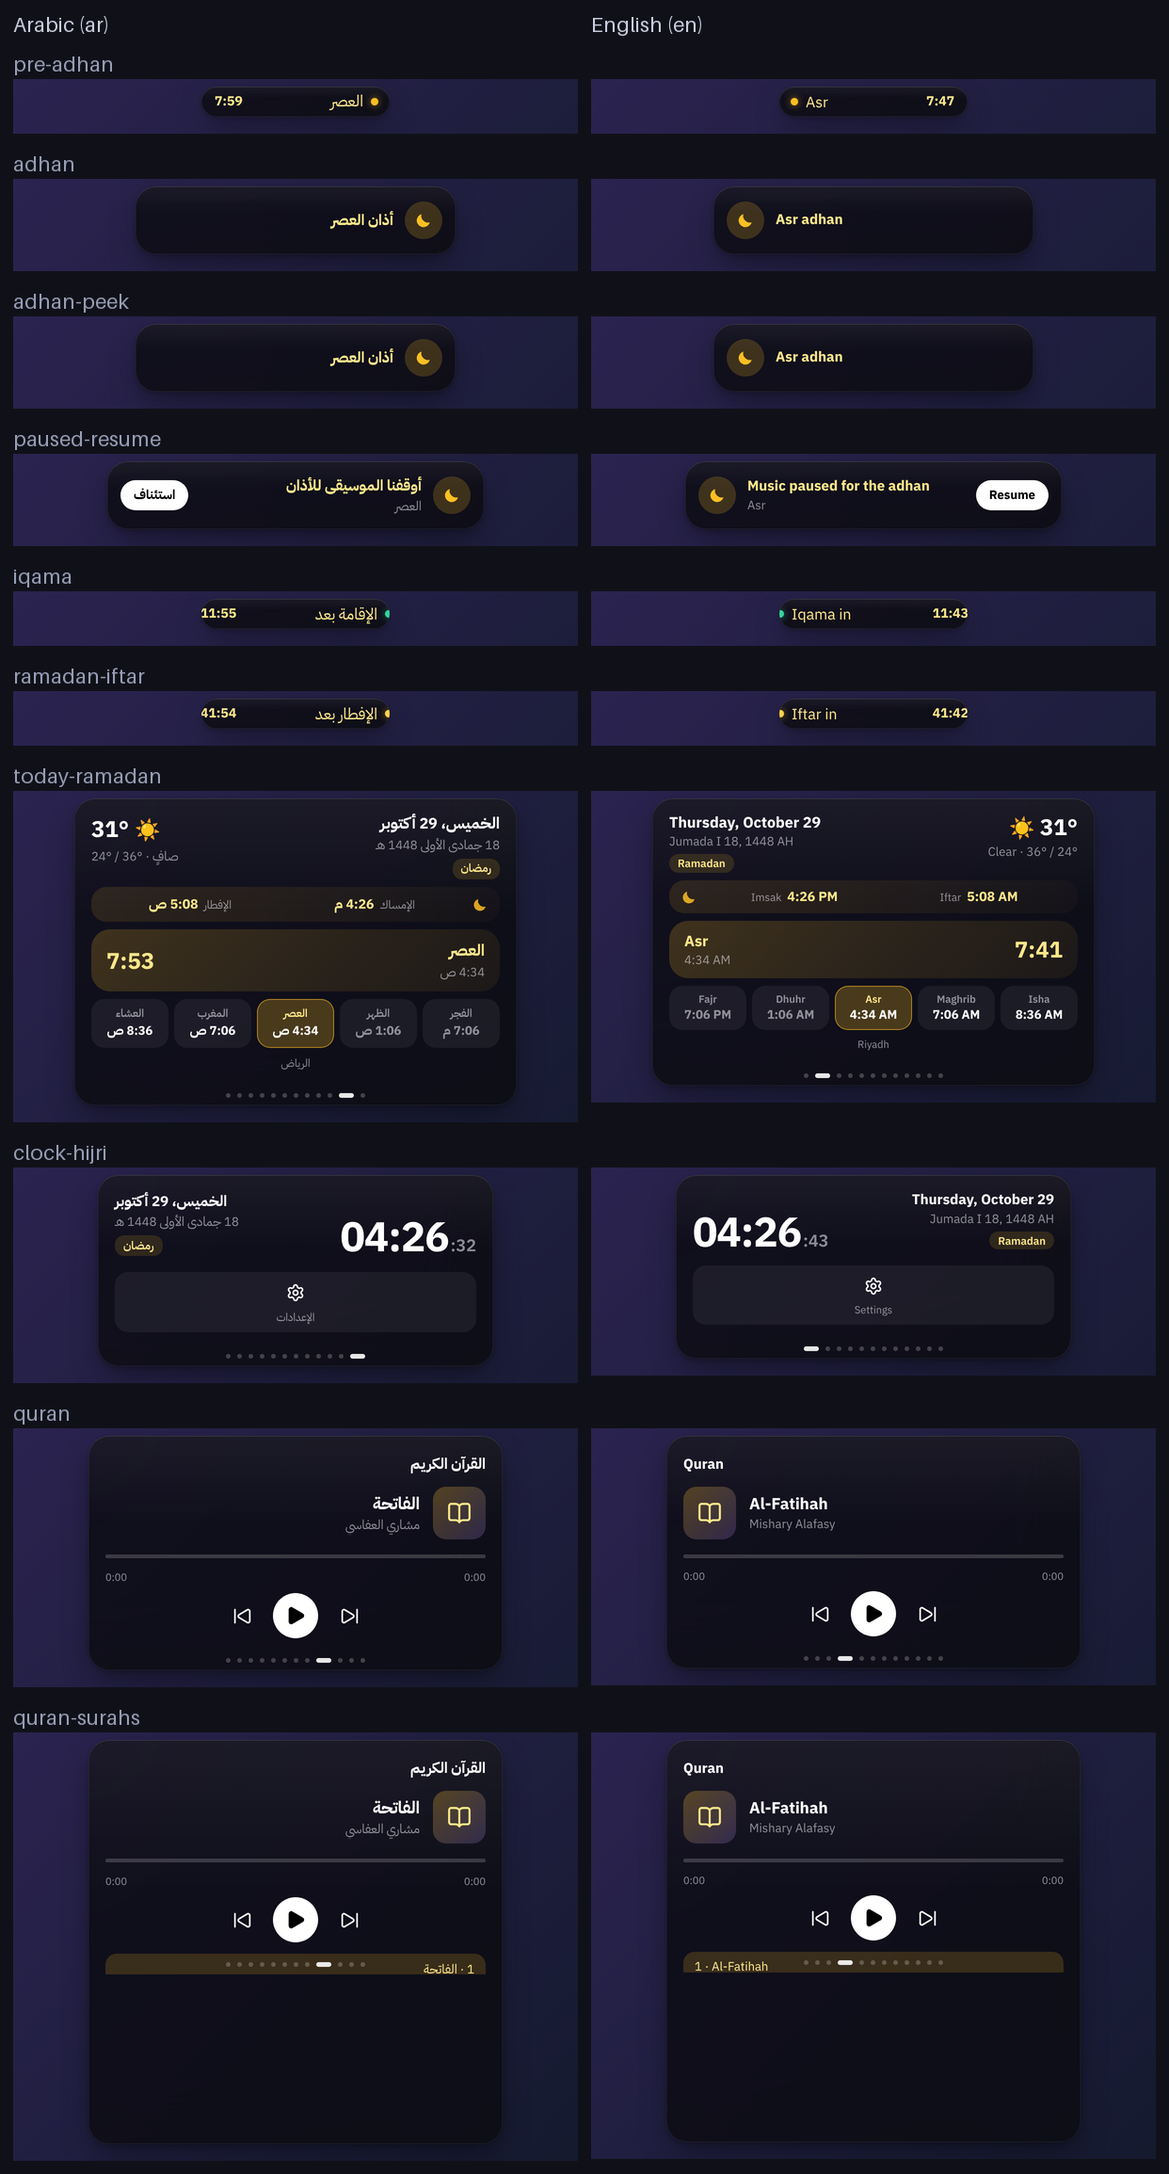
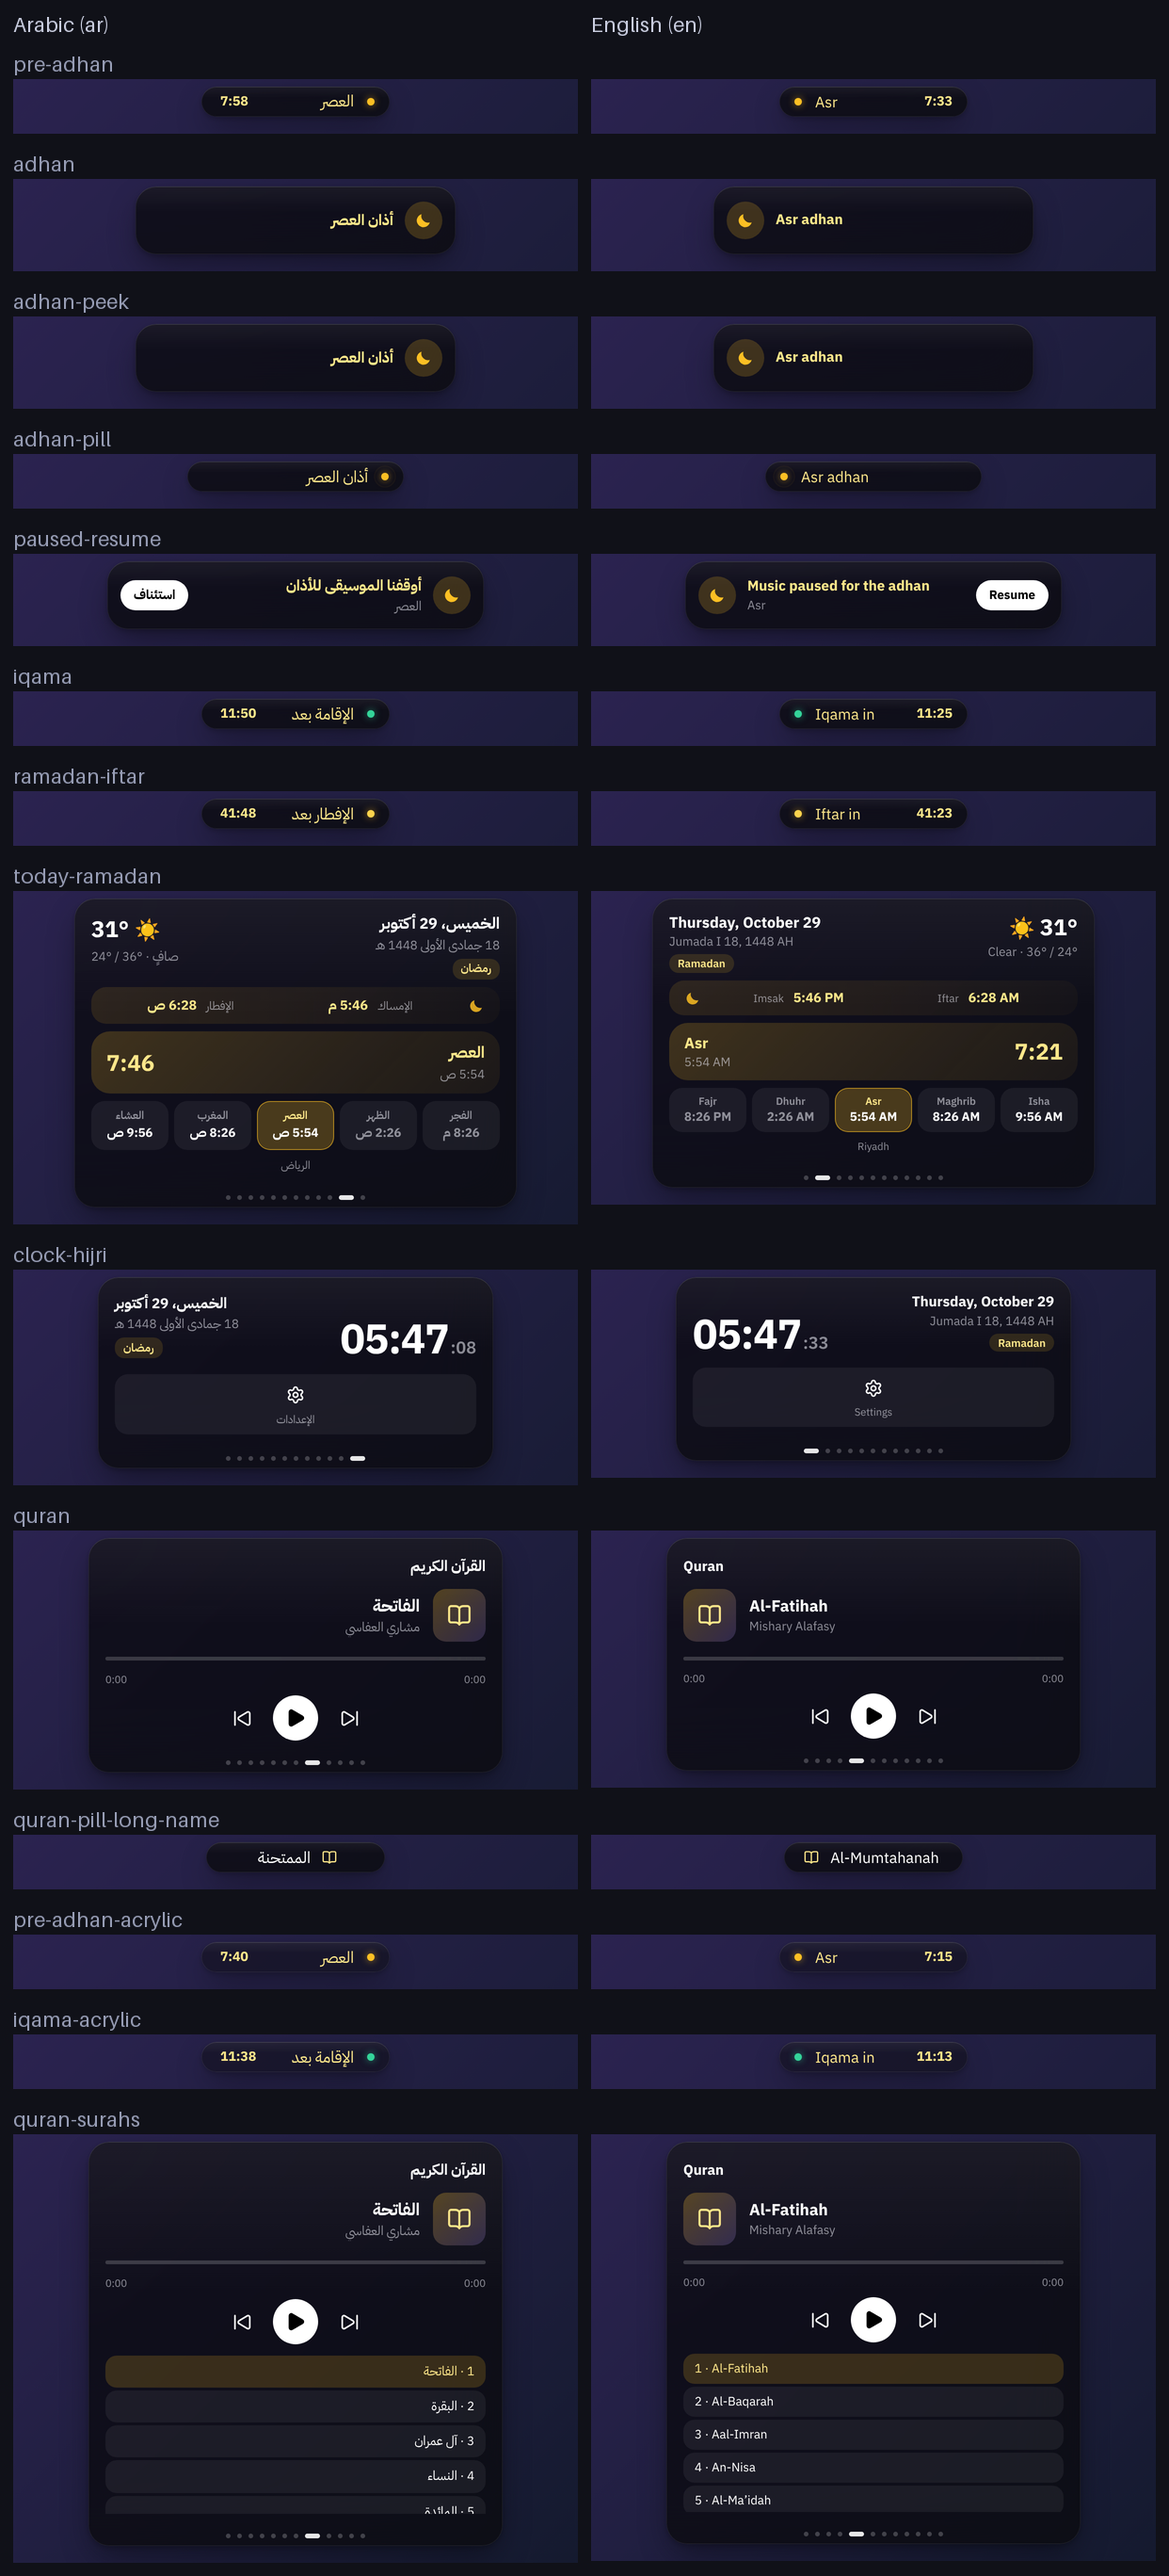
T12: spacing and bidi fixes for every prayer/Ramadan/Quran state (no design change)
- Prayer pill: 16px padding, 10px gap, 4px more after the status dot so the adhan halo never
  reaches the label; the time is isolated and never shrinks, the label ellipsizes instead.
- Ramadan card: 10px between label and time, isolated times (4:26 ص / 5:48 PM keep their order).
- Quran pill: even padding, ellipsis for long surah names.
- island.js: a panel that changes size during its swap (list opened while opening) mounted with
  its stale size and the tab dots covered the list; mount now uses the view's latest size.
- dev/islamic/layout-check.mjs measures every state in ar/en, Latin/Arabic digits, short/long
  strings, 12h/24h: zero issues. Screenshots re-rendered after settling.

Claude-Session: https://claude.ai/code/session_0195km4NETAfSkNhZMs25FZN

Changed region(s): [[0.0, 0.0, 1.0, 0.9667]]

diff --git a/src/renderer/styles.css b/src/renderer/styles.css
@@ -435,10 +435,12 @@ html[dir='ltr'] [dir='auto']:not(input):not(textarea) { text-align: left; }
 html[dir] .lyrics-strip [dir='auto'], html[dir] .sh-item [dir='auto'], html[dir] .ck-app [dir='auto'], html[dir] .td-place[dir='auto'], html[dir] .step-val[dir='auto'] { text-align: center; }
 
 /* ---- T12: live prayer activity, Ramadan, Hijri occasions, Quran player */
-.prayer-activity { padding-block: 0; padding-inline: 12px 14px; gap: 8px; justify-content: center; }
-.prayer-activity .c-title { flex: 1; min-width: 0; color: #fde68a; }
-.prayer-activity .tm { font-size: 14px; color: #fde68a; }
-.pa-dot { flex: none; width: 8px; height: 8px; border-radius: 50%; background: var(--amber); box-shadow: 0 0 8px rgba(251, 191, 36, 0.6); }
+.prayer-activity { padding-block: 0; padding-inline: 16px; gap: 10px; justify-content: center; }
+/* the label gives way (ellipsis) before anything can touch; the time never wraps or shrinks */
+.prayer-activity .c-title { flex: 1; min-width: 0; color: #fde68a; white-space: nowrap; overflow: hidden; text-overflow: ellipsis; }
+.prayer-activity .tm { flex: none; margin-inline-start: 4px; font-size: 14px; color: #fde68a; unicode-bidi: isolate; white-space: nowrap; }
+/* the dot keeps clear of the label even with the adhan halo (5px) around it */
+.pa-dot { flex: none; width: 8px; height: 8px; margin-inline-end: 4px; border-radius: 50%; background: var(--amber); box-shadow: 0 0 8px rgba(251, 191, 36, 0.6); }
 .prayer-activity[data-phase='iqama'] .pa-dot { background: var(--green); box-shadow: 0 0 8px rgba(52, 211, 153, 0.6); }
 .prayer-activity[data-phase='iftar'] .pa-dot { background: #fcd34d; }
 /* the adhan: a calm, slow breathing halo (transform/opacity only; it only runs while the pill is on screen) */
@@ -448,12 +450,13 @@ html[dir] .lyrics-strip [dir='auto'], html[dir] .sh-item [dir='auto'], html[dir]
 .prayer-peek .m-title { color: #fde68a; }
 
 .occasion { display: inline-block; margin-top: 4px; padding: 2px 9px; border-radius: 10px; font-size: 11.5px; font-weight: 600; color: #fde68a; background: rgba(251, 191, 36, 0.14); }
-.rmd { display: flex; align-items: center; gap: 10px; padding: 8px 12px; border-radius: 16px; background: linear-gradient(90deg, rgba(251, 191, 36, 0.12), rgba(251, 191, 36, 0.03)); }
-.rmd-moon { flex: none; width: 18px; height: 18px; opacity: 0.85; }
+.rmd { display: flex; align-items: center; gap: 12px; padding: 9px 16px; border-radius: 16px; background: linear-gradient(90deg, rgba(251, 191, 36, 0.12), rgba(251, 191, 36, 0.03)); }
+.rmd-moon { flex: none; width: 18px; height: 18px; opacity: 0.85; margin-inline-end: 2px; }
 .rmd-moon svg { width: 100%; height: 100%; }
-.rmd-cell { flex: 1; display: flex; align-items: baseline; justify-content: center; gap: 6px; }
+.rmd-cell { flex: 1; min-width: 0; display: flex; align-items: baseline; justify-content: center; gap: 10px; white-space: nowrap; }
 .rmd-cell small { font-size: 11.5px; color: var(--muted); }
-.rmd-cell b { font-size: 14px; color: #fde68a; }
+/* times are isolated so "4:26 ص" / "5:48 PM" keep their order next to Arabic or English labels */
+.rmd-cell b { font-size: 14px; color: #fde68a; unicode-bidi: isolate; }
 
 .music-expanded.quran { padding-bottom: 12px; gap: 6px; }
 .quran .p-head { margin-bottom: 4px; }
@@ -468,7 +471,8 @@ html[dir] .lyrics-strip [dir='auto'], html[dir] .sh-item [dir='auto'], html[dir]
 .q-row { padding: 7px 12px; border-radius: 12px; background: var(--card); text-align: start; font-size: 13px; transition: background 0.15s; }
 .q-row:hover { background: var(--card-hover); }
 .q-row.on { background: rgba(251, 191, 36, 0.18); color: #fde68a; }
-.quran-compact { padding-block: 0; padding-inline: 8px 14px; gap: 8px; justify-content: center; }
+.quran-compact { padding-block: 0; padding-inline: 10px 16px; gap: 10px; justify-content: center; }
+.quran-compact .c-title { min-width: 0; white-space: nowrap; overflow: hidden; text-overflow: ellipsis; }
 .q-dot { flex: none; width: 20px; height: 20px; display: grid; place-items: center; color: #fde68a; }
 .q-dot svg { width: 16px; height: 16px; }
 .quran-compact .c-title { color: var(--text); }

diff --git a/src/renderer/island.js b/src/renderer/island.js
@@ -315,7 +315,8 @@ const Island = (() => {
     const out = hadContent ? M.animate(stage, { opacity: 0, scale: 0.98 }, { duration: reducedMotion ? 0.05 : 0.08, ease: 'easeIn' }) : Promise.resolve();
     out.then(() => {
       if (token !== swapToken) return;
-      mount(v);
+      // the same view may have changed size during the fade-out (a list opened, data arrived): use its latest size
+      mount(current && current.key === v.key ? current : v);
       M.animate(
         stage,
         { opacity: [0, 1], scale: [0.96, 1], filter: ['blur(4px)', 'blur(0px)'] },

diff --git a/docs/HANDOFF.md b/docs/HANDOFF.md
@@ -474,3 +474,30 @@
 3. **`quran:url` يعتمد على cache فقط:** الواجهة تنادي `quran:reciters` قبله دائماً، وهذا يكفي.
 4. **خطأ قديم في main:** `src/main/services/tracker.js:55` فيه `const key = dayKey()` يظلل الدالة `key()` فيصير ReferenceError كل 5 ثوانٍ، وتتبّع الوقت ما يحسب. موجود في dev من `b9273af`.
 5. **مدة الأذان:** العقد القديم في HANDOFF يقول 3 دقائق، و T10 دقيقتين (`ADHAN_MS`). الواجهة ما تفترض أي مدة وتعتمد `phaseEndsAt`، فحدّث جدول العقد.
+
+## 2026-10-29 · Claude · T12 (مراجعة بصرية: التداخل والمسافات)
+
+نفس الفرع والـ PR (#15). تعديل مسافات ومحاذاة فقط، بدون تغيير في اتجاه التصميم.
+
+**قيست كل حالة** بـ `dev/islamic/layout-check.mjs` (جديد). يغطي العربي والإنجليزي، والأرقام اللاتينية والهندية، والنصوص القصيرة والطويلة (الصلوات الخمس، وعد 59:59، وسور بأسماء طويلة)، و 12 و 24 ساعة. الشروط:
+- ≥ 8px بين أي عنصرين، و ≥ 12px حول نقطة الحالة.
+- ≥ 10px من حافة الحبة.
+- لا نص مقصوص.
+- محتوى اللوحات لا يصل لنقاط التنقل.
+
+**ما وجدته وصلّحته:**
+- **حبة الصلاة (العصر، الإقامة، الإفطار):** النقطة كانت على بعد 8px من النص، وهالة الأذان (5px) تكاد تلمسه.
+  - صارت: حشوة 16px، وفجوة 10px، وهامش 4px بعد النقطة (إجمالي 14px).
+  - الوقت `flex: none` معزول (`unicode-bidi: isolate`)، والعنوان يقصر بـ ellipsis بدل التداخل.
+- **بطاقة رمضان:** 6px بين «الإمساك»/«الإفطار» والوقت، فصارت 10px مع حشوة أوسع. الأوقات معزولة، فيبقى «4:26 ص» و «5:48 PM» بترتيبهما الصحيح.
+- **حبة القرآن:** حشوة وفجوة 10/16px، و ellipsis للأسماء الطويلة.
+- **تداخل حقيقي في قلب الجزيرة** (`island.js`، من T6): لو تغيّر حجم اللوحة أثناء تبديلها (مثلاً فتح قائمة السور مع فتح اللوحة)، الـ `mount` المتأخر كان يرجّع الحجم القديم، فتصير نقاط التنقل فوق القائمة. الحين يستخدم آخر حجم لنفس اللوحة. أعدت إنتاجه قبل الإصلاح: المحتوى 249px والجزيرة 437px، وبعده تطابقا.
+- **في أدوات الصور فقط:** انتظار أطول قبل اللقطة (1.6s)، لأن لقطة أثناء الحركة كانت تبان مقصوصة. وأضفت لقطات: حبة الأذان، وحبة القرآن باسم طويل، والأكريليك.
+
+**الأدلة:**
+- `node dev/islamic/layout-check.mjs`: صفر مشاكل.
+- `npm test` أخضر.
+- ui-e2e: 18/18 بالعربي و 18/18 بالإنجليزي.
+- `dev/islamic/sheet-island.png` أعيد توليده: 15 حالة لكل لغة، صفر طلبات شبكة.
+
+**لم يُختبر:** ويندوز الحقيقي (ClearType و DPI). وضع «الشريط المحجوز» ما يغيّر تخطيط الواجهة، فالتحقق عليه بالمنطق بس.
